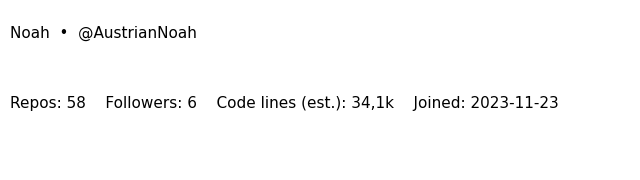
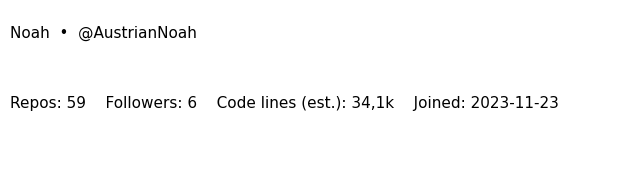
chore: update profile stats (matplotlib + line counts)

Changed region(s): [[0.5625, 0.5278, 0.875, 0.6111], [0.3438, 0.5278, 0.5312, 0.6111], [0.0938, 0.5278, 0.3125, 0.6111]]

diff --git a/README.md b/README.md
@@ -6,8 +6,8 @@
 
 <img src="assets/stats/github_stats_card.svg" alt="summary card">
 
-- **Repos:** 58
+- **Repos:** 59
 - **Followers:** 6
 - **Estimated code lines (counted 30 repos):** 34,1k
-- **Updated (UTC):** 2026-08-24T07:12:32.165104Z
+- **Updated (UTC):** 2026-08-25T06:59:48.495746Z
 <!-- STATS:END -->
